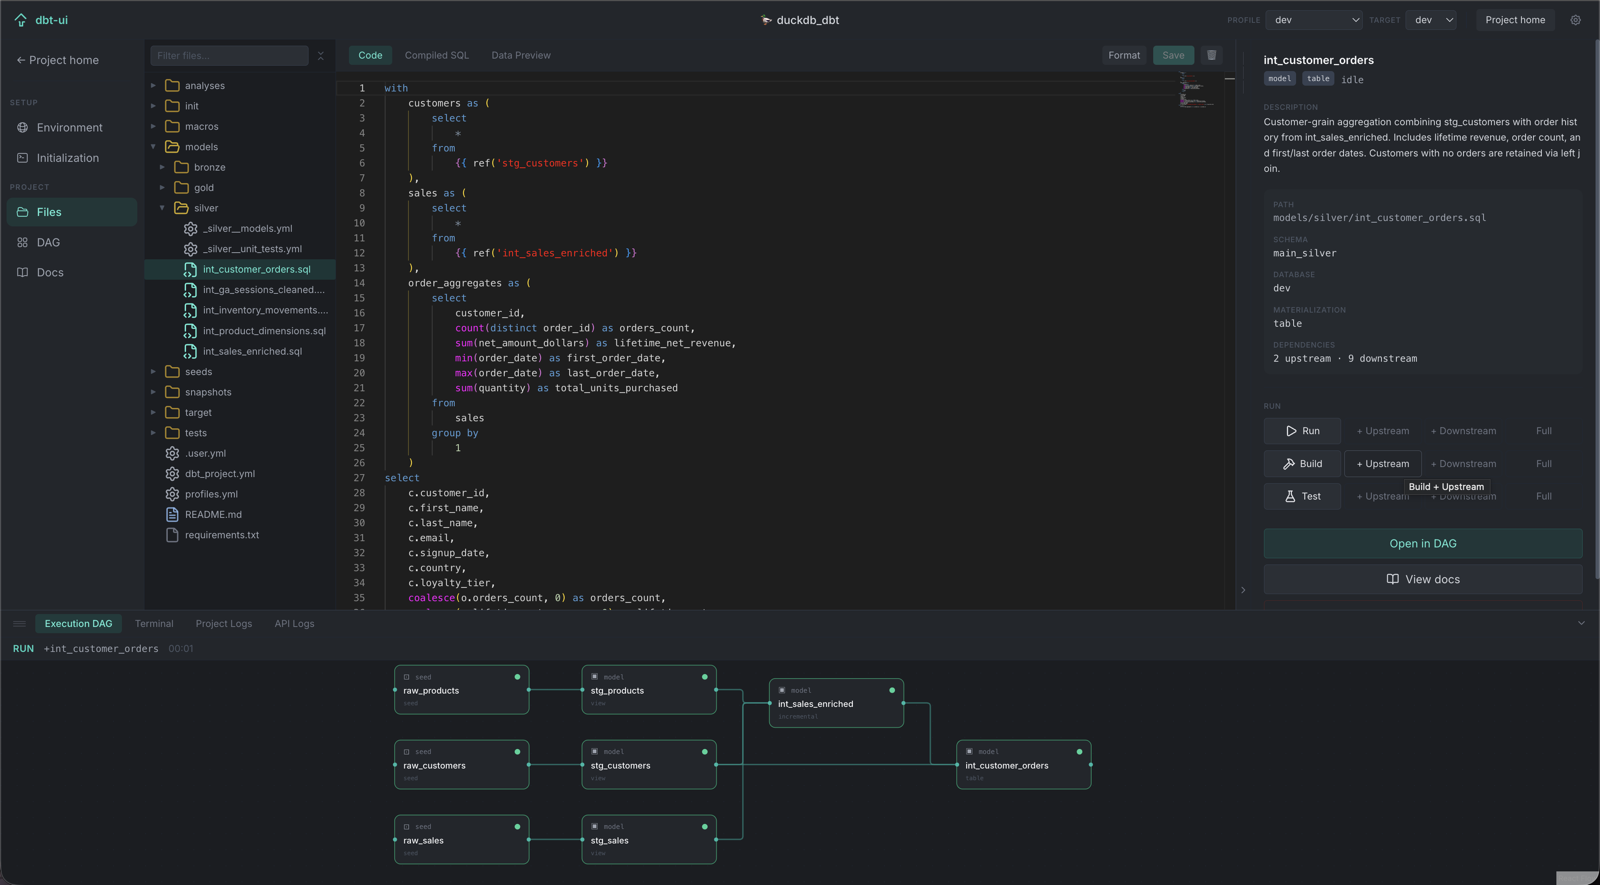
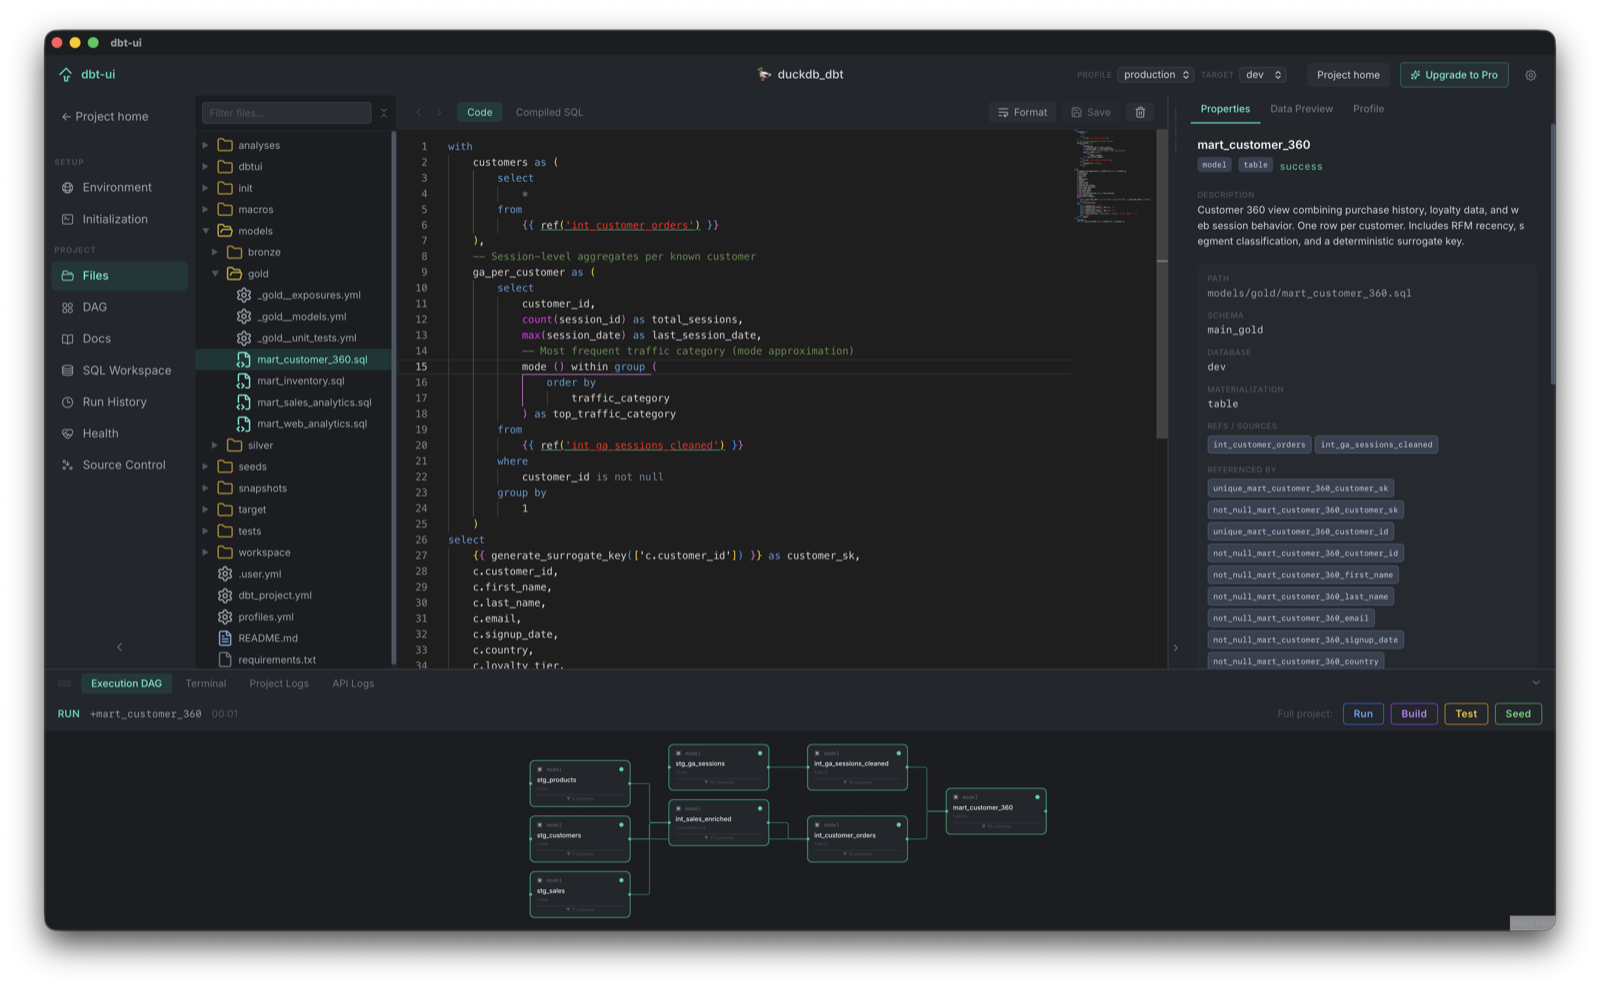
updating screenshots

diff --git a/product-dbt-ui/index.html b/product-dbt-ui/index.html
@@ -247,6 +247,109 @@
     gap: 20px;
   }
 
+  /* ---- gallery ---- */
+  .gallery-grid {
+    display: grid;
+    grid-template-columns: repeat(3, 1fr);
+    gap: 14px;
+  }
+  .gallery-item {
+    border: 1px solid var(--line);
+    border-radius: 10px;
+    overflow: hidden;
+    background: var(--panel);
+    cursor: zoom-in;
+    display: flex;
+    flex-direction: column;
+    transition: border-color 0.15s ease;
+  }
+  .gallery-item:hover { border-color: var(--teal-dim); }
+  .gallery-item img { width: 100%; display: block; }
+  .gallery-cap {
+    padding: 10px 12px;
+    font-family: 'IBM Plex Mono', monospace;
+    font-size: 12px;
+    color: var(--ink-dim);
+    border-top: 1px solid var(--line-soft);
+  }
+
+  .lightbox {
+    display: none;
+    position: fixed;
+    inset: 0;
+    background: rgba(6, 7, 8, 0.86);
+    z-index: 50;
+    align-items: center;
+    justify-content: center;
+    padding: 32px;
+    cursor: zoom-out;
+  }
+  .lightbox.open { display: flex; }
+  .lightbox img {
+    max-width: min(1100px, 100%);
+    max-height: 88vh;
+    border-radius: 10px;
+    border: 1px solid var(--line);
+    box-shadow: 0 40px 80px -30px rgba(0, 0, 0, 0.7);
+  }
+  .lightbox-close {
+    position: absolute;
+    top: 22px;
+    right: 26px;
+    font-family: 'IBM Plex Mono', monospace;
+    font-size: 13px;
+    color: var(--ink-dim);
+    border: 1px solid var(--line);
+    border-radius: 6px;
+    padding: 6px 12px;
+    background: var(--panel);
+  }
+  .lightbox-nav {
+    position: absolute;
+    top: 50%;
+    transform: translateY(-50%);
+    font-family: 'IBM Plex Mono', monospace;
+    font-size: 20px;
+    color: var(--ink-dim);
+    border: 1px solid var(--line);
+    border-radius: 50%;
+    width: 44px;
+    height: 44px;
+    display: flex;
+    align-items: center;
+    justify-content: center;
+    background: var(--panel);
+    cursor: pointer;
+    transition: color 0.15s ease, border-color 0.15s ease;
+  }
+  .lightbox-nav:hover { color: var(--teal); border-color: var(--teal-dim); }
+  .lightbox-prev { left: 26px; }
+  .lightbox-next { right: 26px; }
+  .lightbox-cap {
+    position: absolute;
+    bottom: 28px;
+    left: 50%;
+    transform: translateX(-50%);
+    font-family: 'IBM Plex Mono', monospace;
+    font-size: 12.5px;
+    color: var(--ink-dim);
+    background: var(--panel);
+    border: 1px solid var(--line);
+    border-radius: 6px;
+    padding: 8px 16px;
+    max-width: 80vw;
+    text-align: center;
+  }
+  @media (max-width: 760px) {
+    .lightbox-nav { width: 38px; height: 38px; font-size: 17px; }
+    .lightbox-prev { left: 10px; }
+    .lightbox-next { right: 10px; }
+  }
+
+  @media (max-width: 760px) {
+    .gallery-grid { grid-template-columns: 1fr; }
+  }
+
   /* ---- pricing ---- */
   .plans {
     display: grid;
@@ -447,6 +550,80 @@
     </div>
   </section>
 
+  <section id="gallery">
+    <div class="section-head">
+      <p class="eyebrow">Take a look around</p>
+      <h2>Every page, right inside the app.</h2>
+      <p>From project discovery to schema drift checks — a tour of what's actually in the window when you're using dbt-ui.</p>
+    </div>
+    <div class="gallery-grid">
+      <div class="gallery-item" data-full="../assets/img/homepage_1200.png" data-cap="Project discovery — scans your workspace for dbt projects">
+        <img src="../assets/img/homepage_1200.png" alt="dbt-ui project list homepage">
+        <div class="gallery-cap">Homepage</div>
+      </div>
+      <div class="gallery-item" data-full="../assets/img/settings_1200.png" data-cap="Global settings — profiles, requirements, theme, and subscription in one place">
+        <img src="../assets/img/settings_1200.png" alt="dbt-ui global settings modal">
+        <div class="gallery-cap">Global settings</div>
+      </div>
+      <div class="gallery-item" data-full="../assets/img/environment_1200.png" data-cap="Environment tab — profiles, env vars, and per-project settings">
+        <img src="../assets/img/environment_1200.png" alt="dbt-ui environment and profile settings">
+        <div class="gallery-cap">Environment &amp; profiles</div>
+      </div>
+      <div class="gallery-item" data-full="../assets/img/initialization_1200.png" data-cap="Init pipeline — pip install, dbt deps, and custom scripts run automatically">
+        <img src="../assets/img/initialization_1200.png" alt="dbt-ui initialization pipeline steps">
+        <div class="gallery-cap">Initialization pipeline</div>
+      </div>
+      <div class="gallery-item" data-full="../assets/img/file_explorer_data_preview_1200.png" data-cap="File explorer — Data Preview tab, query any model's output without leaving the editor">
+        <img src="../assets/img/file_explorer_data_preview_1200.png" alt="dbt-ui file explorer data preview tab">
+        <div class="gallery-cap">Data preview</div>
+      </div>
+      <div class="gallery-item" data-full="../assets/img/file_explorer_profile_1200.png" data-cap="File explorer — column profile: row count, null%, distinct, min/max, and samples">
+        <img src="../assets/img/file_explorer_profile_1200.png" alt="dbt-ui file explorer column profile tab">
+        <div class="gallery-cap">Column profile</div>
+      </div>
+      <div class="gallery-item" data-full="../assets/img/column_lineage_1200.png" data-cap="Column-level lineage (Pro) — trace any column across the DAG">
+        <img src="../assets/img/column_lineage_1200.png" alt="dbt-ui column-level lineage tracing in the DAG">
+        <div class="gallery-cap">Column lineage (Pro)</div>
+      </div>
+      <div class="gallery-item" data-full="../assets/img/docs_model_1200.png" data-cap="Native docs browser — columns, descriptions, lineage, all searchable">
+        <img src="../assets/img/docs_model_1200.png" alt="dbt-ui native docs browser showing model detail">
+        <div class="gallery-cap">Docs browser</div>
+      </div>
+      <div class="gallery-item" data-full="../assets/img/docs_macro_1200.png" data-cap="Docs — macros with a live &quot;Try It&quot; compiler for arguments and Jinja">
+        <img src="../assets/img/docs_macro_1200.png" alt="dbt-ui docs macro try it panel">
+        <div class="gallery-cap">Macro docs</div>
+      </div>
+      <div class="gallery-item" data-full="../assets/img/sql_workspace_1200.png" data-cap="SQL Workspace — Monaco editor, compiled SQL, and live query results">
+        <img src="../assets/img/sql_workspace_1200.png" alt="dbt-ui SQL workspace with query results">
+        <div class="gallery-cap">SQL Workspace</div>
+      </div>
+      <div class="gallery-item" data-full="../assets/img/run_history_1200.png" data-cap="Run history — every invocation, with duration and per-node results">
+        <img src="../assets/img/run_history_1200.png" alt="dbt-ui run history table">
+        <div class="gallery-cap">Run history</div>
+      </div>
+      <div class="gallery-item" data-full="../assets/img/health_check_1200.png" data-cap="Health check — structured dbt debug output, pass/fail per check">
+        <img src="../assets/img/health_check_1200.png" alt="dbt-ui health check panel">
+        <div class="gallery-cap">Health check</div>
+      </div>
+      <div class="gallery-item" data-full="../assets/img/schema_drift_1200.png" data-cap="Schema drift — compares warehouse columns against manifest.json">
+        <img src="../assets/img/schema_drift_1200.png" alt="dbt-ui schema drift detection">
+        <div class="gallery-cap">Schema drift</div>
+      </div>
+      <div class="gallery-item" data-full="../assets/img/source_freshness_1200.png" data-cap="Source freshness — per-source age against warn/error thresholds">
+        <img src="../assets/img/source_freshness_1200.png" alt="dbt-ui source freshness check">
+        <div class="gallery-cap">Source freshness</div>
+      </div>
+      <div class="gallery-item" data-full="../assets/img/source_control_1200.png" data-cap="Source control — VSCode-style Git panel with Monaco diff viewer">
+        <img src="../assets/img/source_control_1200.png" alt="dbt-ui source control diff view">
+        <div class="gallery-cap">Source control</div>
+      </div>
+      <div class="gallery-item" data-full="../assets/img/light_theme_1200.png" data-cap="Light theme — the whole app, not just a dark mode afterthought">
+        <img src="../assets/img/light_theme_1200.png" alt="dbt-ui light theme">
+        <div class="gallery-cap">Light theme</div>
+      </div>
+    </div>
+  </section>
+
   <section id="pricing">
     <div class="section-head">
       <p class="eyebrow">Pricing</p>
@@ -507,3 +684,57 @@
     <a href="../index.html">← all products</a>
   </footer>
 </div>
+
+<div class="lightbox" id="lightbox">
+  <button class="lightbox-close" id="lightbox-close">Close ✕</button>
+  <button class="lightbox-nav lightbox-prev" id="lightbox-prev" aria-label="Previous image">‹</button>
+  <img id="lightbox-img" src="" alt="">
+  <button class="lightbox-nav lightbox-next" id="lightbox-next" aria-label="Next image">›</button>
+  <div class="lightbox-cap" id="lightbox-cap"></div>
+</div>
+
+<script>
+  (function () {
+    var lightbox = document.getElementById('lightbox');
+    var lightboxImg = document.getElementById('lightbox-img');
+    var lightboxCap = document.getElementById('lightbox-cap');
+    var closeBtn = document.getElementById('lightbox-close');
+    var prevBtn = document.getElementById('lightbox-prev');
+    var nextBtn = document.getElementById('lightbox-next');
+    var items = Array.prototype.slice.call(document.querySelectorAll('.gallery-item'));
+    var currentIndex = -1;
+
+    function show(index) {
+      currentIndex = (index + items.length) % items.length;
+      var item = items[currentIndex];
+      lightboxImg.src = item.getAttribute('data-full');
+      var cap = item.getAttribute('data-cap') || '';
+      lightboxImg.alt = cap;
+      lightboxCap.textContent = cap;
+      lightbox.classList.add('open');
+    }
+
+    items.forEach(function (item, index) {
+      item.addEventListener('click', function () { show(index); });
+    });
+
+    function close() {
+      lightbox.classList.remove('open');
+      lightboxImg.src = '';
+      currentIndex = -1;
+    }
+
+    closeBtn.addEventListener('click', close);
+    prevBtn.addEventListener('click', function (e) { e.stopPropagation(); show(currentIndex - 1); });
+    nextBtn.addEventListener('click', function (e) { e.stopPropagation(); show(currentIndex + 1); });
+    lightbox.addEventListener('click', function (e) {
+      if (e.target === lightbox) close();
+    });
+    document.addEventListener('keydown', function (e) {
+      if (!lightbox.classList.contains('open')) return;
+      if (e.key === 'Escape') close();
+      if (e.key === 'ArrowLeft') show(currentIndex - 1);
+      if (e.key === 'ArrowRight') show(currentIndex + 1);
+    });
+  })();
+</script>
